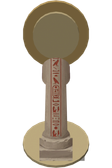
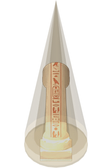
feat: light is ADDED to the exit, so the shaft can stand where the marker does
Sharp has no depth buffer, so a composited layer must be wholly in front of
the paint or wholly behind it — and a beam centred on a marker is neither.
Three arrangements were built to dodge that and none of them read: the stone
in front of a beam, the stone in front of a disc, a shaft slanted past it.

import-tile --glow adds its layer instead of covering with it, which is what
light does. The stone inside the shaft is simply lit stone, and no depth is
needed to say so. --behind, added an hour earlier for the under-the-paint
case, is deleted: --glow removed its only user.

THE LAYER IS RENDERED DIM, because with an additive composite the SUM is what
clips. 0.12 haze and 0.26 pool against the free beam's 0.28 and 0.9 — at those
the cone saturated to a solid tan mass and took the glyph column with it.

THE SHAFT IS THREE NESTED CONES, which is how a flat material gets a falloff.
One cone is a wedge: a hard edge down each side and one value all the way
across, and beside the pool at its foot — a single disc, soft because it is
round — that wedge reads as a shape rather than as light. Nested and added,
the sum steps toward the middle and the outer edge is the faintest thing in
the tile. It is also why the haze alpha is this low: the middle carries three.

MOTES IN THE BEAM WERE TRIED AND CUT. A tile is stored at 2x, so a speck small
enough to be a speck lands on about ONE drawn pixel of added light inside a
[…]

diff --git a/scripts/importTile.ts b/scripts/importTile.ts
@@ -36,11 +36,11 @@
  *                    invented floor over the footprint instead, so the tile arrives with nothing below
  *                    35 and does not sit on anything. `render-prop --only=shadow` draws it in the same
  *                    frame as the object, which is what makes the two line up.
- *   --behind=light.png lay a rendered layer UNDER the art at full strength — --seat's sibling, for the
- *                    part of a tile a repaint cannot make rather than will not. A return comes back
- *                    opaque on magenta, so anything that has to be SEE-THROUGH has to be rendered. The
- *                    exit is the only user: its marker stone is painted and its daylight is not, and
- *                    `render-prop --drop` draws the two halves in one frame so they line up.
+ *   --glow=light.png lay a rendered layer over the art and ADD it, rather than cover with it — which is
+ *                    what light does. It is how the exit's shaft can stand where the marker stands: sharp
+ *                    has no depth buffer, so a layer composited `over` must be wholly in front of the
+ *                    paint or wholly behind it, but an added one simply brightens what it crosses. It
+ *                    clips where it crosses something already pale, so render the layer DIM.
  *   --scale=0.45     how much of the SLOT the object fills, still standing on the floor line. Without it
  *                    a prop grows until it touches an edge, so a lamp and a sarcophagus arrive the same
  *                    height — a shabti, which is a 20cm figurine, landed 84 units tall.
@@ -403,20 +403,7 @@ const cutToMask = async (img: sharp.Sharp, maskPath: string, grow = 0): Promise<
 }
 
 /**
- * Lays a rendered layer under the art. Two callers, and the difference between them is only `opacity`.
- *
- * `--seat` is the footprint, laid TRANSLUCENT so the floor is shaded rather than replaced. `--behind` is
- * anything else the repaint could not make and the geometry must, laid at full strength.
- *
- * UNDER rather than over, and for the exit — the only user of `--behind` — that is not a preference but
- * the depth order. Everything of its daylight stands further from the viewer than the marker stone does,
- * so the stone occludes all of it; composited on TOP the pool of light drew across the pillar's own foot
- * and took the base with it. Sharp has no depth buffer, so the arrangement has to be one a flat stack can
- * express, which means every rendered part is either wholly in front of the paint or wholly behind it.
- *
- * Laid before `--seat` so the shadow falls ON the light rather than under it, and before the trim either
- * way, so the layer and the art are trimmed and seated as one sprite: the exit's disc stands clear above
- * the pillar's cap and is part of the silhouette the slot gets filled with.
+ * Lays the rendered footprint under the art, TRANSLUCENT, so the floor is shaded rather than replaced.
  *
  * `make_shadow` paints an opaque patch — the rank's floor colour darkened — and opaque was right while
  * the shadow was being composited against the magenta backdrop, where any alpha came back magenta-tinted
@@ -428,7 +415,7 @@ const cutToMask = async (img: sharp.Sharp, maskPath: string, grow = 0): Promise<
  * At `opacity` the tile darkens what is behind it instead: floor*(1-a) + shade*a, which keeps the
  * paving legible through the shadow and makes the seat's own colour a nudge rather than a claim.
  */
-const underlay = async (img: sharp.Sharp, layerPath: string, opacity: number): Promise<sharp.Sharp> => {
+const underlayShadow = async (img: sharp.Sharp, layerPath: string, opacity: number): Promise<sharp.Sharp> => {
   const art = await img.ensureAlpha().png().toBuffer({ resolveWithObject: true })
   const { width, height } = art.info
   // Rendered out first for the same reason cutToMask does it: sharp resizes before it composites.
@@ -439,6 +426,36 @@ const underlay = async (img: sharp.Sharp, layerPath: string, opacity: number): P
     .png()
     .toBuffer()
   return sharp(seated)
+}
+
+/**
+ * Lays a rendered layer over the art and ADDS it, rather than covering with it.
+ *
+ * Which is what light does, and it is the reason the exit's shaft can exist at all. Composited `over`,
+ * every rendered part has to be wholly in front of the paint or wholly behind it — sharp has no depth
+ * buffer — so a beam standing where the marker stands could only ever be hidden by it. Added, it brightens
+ * whatever it crosses instead: the stone inside the shaft is lit stone, and no depth is needed to say so.
+ *
+ * `add` CLIPS, and that is the thing to watch rather than the thing to avoid. Where the beam crosses
+ * something already pale the sum saturates and detail goes with it, so the layer is rendered dim and the
+ * brightness comes from the sum. On the gods' lit calcite that margin is thinnest.
+ *
+ * The alpha sums as well as the colour, and that is right rather than a side effect: `add` is Porter-Duff
+ * PLUS on premultiplied pixels, so where the beam falls outside the stone it keeps its own thin alpha and
+ * the paving still shows through it. Capping the result to the art's alpha instead would erase every part
+ * of the shaft that is not standing on the pillar, which is most of it.
+ */
+const glowOver = async (img: sharp.Sharp, layerPath: string): Promise<sharp.Sharp> => {
+  const art = await img.ensureAlpha().png().toBuffer({ resolveWithObject: true })
+  const { width, height } = art.info
+  // Rendered out first for the same reason cutToMask does it: sharp resizes before it composites.
+  const fitted = await sharp(layerPath).ensureAlpha().resize(width, height, { fit: "fill" }).png().toBuffer()
+  return sharp(
+    await sharp(art.data)
+      .composite([{ input: fitted, blend: "add" }])
+      .png()
+      .toBuffer()
+  )
 }
 
 /** Scales an image's alpha channel, leaving its colours alone. */
@@ -507,13 +524,11 @@ const main = async (): Promise<void> => {
   if (archFitted) img = await fitToDoorway(img, w, h, smooth)
   const maskPath = arg("mask")
   if (maskPath) img = await cutToMask(img, maskPath, Number(arg("mask-grow", "0")))
-  // Both of these go after the mask, so they are laid under the object's TRUE silhouette rather than
-  // under a repaint's invented floor, and before the trim, so it treats the whole stack as one sprite.
-  // `--behind` first, so the shadow falls on the light rather than under it: see `underlay`.
-  const behindPath = arg("behind")
-  if (behindPath) img = await underlay(img, behindPath, 1)
   const shadowPath = arg("seat")
-  if (shadowPath) img = await underlay(img, shadowPath, Number(arg("seat-opacity", "0.55")))
+  if (shadowPath) img = await underlayShadow(img, shadowPath, Number(arg("seat-opacity", "0.55")))
+  // Last of the three, and OVER rather than under: added light needs something under it to add to.
+  const glowPath = arg("glow")
+  if (glowPath) img = await glowOver(img, glowPath)
   if (seat && !process.argv.includes("--no-trim")) img = await seatOnFloorLine(img, w / h, Number(arg("scale", "1")))
   // `--trim` is the positive of `--no-trim`, for the slots that never trim at all.
   //

diff --git a/scripts/renderProp.py b/scripts/renderProp.py
@@ -1628,32 +1628,50 @@ def prim_exit():
     battered cippus with a sunk panel for its inscription, which is a thing that was placed, and the light
     is then what singles it out rather than what has to carry the whole meaning.
 
-    THE STONE STANDS IN FRONT OF THE BEAM, and the projection is why rather than taste. Drawn height is
-    z + k*y, so anything nearer the viewer draws LOWER: at y = -0.16 against the shaft's +0.12 the stone
-    lands clear of the light on the page instead of inside it. Concentric, the core would have sat over
-    the panel at 0.9 alpha and taken the inscription with it — `prim_falsedoor`'s offering table, the same
-    overlap arithmetic from the other side.
+    THE STONE STANDS INSIDE THE SHAFT, which is only possible because the import ADDS the light layer
+    rather than laying it over or under (`import-tile --glow`). Sharp has no depth buffer, so a composited
+    layer has to be wholly in front of the paint or wholly behind it — and a beam centred on a marker is
+    neither. Three arrangements were built to dodge that before the additive one: the stone in front of a
+    beam, the stone in front of a disc, and a shaft slanted past it. Added, the stone inside the shaft is
+    lit stone and nothing has to dodge.
 
     THE STONE IS PAINTED AND THE LIGHT IS NOT, which is why they are separate parts rather than one mesh.
     A repaint comes back opaque on magenta, so a painted beam is a post; the stone goes through the
-    generator as any prop does and the light is rendered and laid back over the return at import
-    (`--drop` here, `--overlay` there). Everything of the light is `!nocast`: it stands on the floor in the
-    picture but casts nothing on it, so the seat under the tile is the stone's footprint alone.
+    generator as any prop does and the light is rendered and added back at import (`--drop` here,
+    `--glow` there). Everything of the light is `!nocast`: it stands on the floor in the picture but casts
+    nothing on it.
+
+    AND THE LAYER IS RENDERED DIM, because with an additive composite the SUM is what clips. The free
+    beam's own 0.28 haze and 0.9 core saturate to a solid tan mass over the stone and take the glyph
+    column with them; 0.18 and 0.26 leave the inscription readable through the light.
     """
     # The pool on the paving, which is what roots the shaft to the floor rather than leaving it hovering.
     # Flat and shallow: depth is taxed into height here as everywhere.
     mark(cyl(0.30, 0.02, y=-0.14, z=0.01, verts=24), "daylight!nocast")
-    # The DISC, standing behind the stone: two rings, a wider haze round a brighter core.
-    for r, y_off, part in ((0.30, 0.16, "haze"), (0.21, 0.14, "daylight")):
-        disc = mark(cyl(r, 0.02, y=y_off, z=0.80, verts=26), f"{part}!nocast")
-        disc.rotation_euler = (math.radians(90), 0, 0)
-    # A SHAFT OVER THE PILLAR WAS TRIED AND DROPPED, in three sizes, and the reason is worth keeping
-    # because it is an obvious thing to want twice. Rising from the floor past the stone it is a spike
-    # through the disc; sized to land on the cap it is a candle flame, which a cone closing upward always
-    # is at 56 units; wide enough to flare past the stone it is a tent pitched over it. To read as a
-    # spotlight at all it would have to reach the top of the frame, and `seat_and_normalise` scales the
-    # whole object to one unit tall — so buying the shaft means shrinking the marker, which is the thing
-    # the light is there to pick out.
+    # The SHAFT, standing ON that pool and closing to a point above the pillar's cap. It is centred on the
+    # stone rather than set behind it, which is only possible because the import ADDS this layer
+    # (`--glow`): a beam composited over the paint would hide the marker, and one composited under it
+    # would be hidden BY the marker, so every earlier arrangement had to dodge sideways and none of them
+    # read. Added, the stone inside the shaft is simply lit stone.
+    #
+    # THREE NESTED CONES RATHER THAN ONE, which is how a flat material gets a falloff. One cone is a wedge
+    # with a hard edge down each side and the same value all the way across, and next to the pool at its
+    # foot — a single disc, soft because it is round — that wedge is the part that reads as a shape rather
+    # than as light. Nested and added, the sum steps up toward the middle and the outermost edge is the
+    # faintest thing in the tile, which is what an edge of light looks like.
+    #
+    # No brighter CORE part in it: the steps are all the same material, and it is the overlap that makes
+    # the middle bright. A core of its own colour is a hard edge up the centre, and against an additive
+    # composite that edge is where the sum clips first.
+    for r in (0.30, 0.21, 0.13):
+        mark(cone(r, 0.0, 1.30, y=-0.02, z=0.65), "haze!nocast")
+    # MOTES IN THE BEAM WERE TRIED AND CUT, and the arithmetic is the whole answer. A tile is stored at
+    # 2x, so a speck small enough to be a speck is two or three stored pixels and lands on ONE drawn — at
+    # 56 units that is a single pixel of added light inside a cone that is already light, and it is not
+    # visible at all. Enlarged until it was, it stopped being dust; moved off the shaft to keep clear of
+    # the stone, it fell where the cone is thin enough that it read as dirt on the lens. Over the pillar
+    # it was worse than invisible: additive, it brightens the glyph column, which is the one part of this
+    # tile that has to stay legible.
     # The marker stone: a stepped base, a round shaft between two collars, and a cap.
     #
     # ROUND, and SHORT. A square post with a sunk panel in it read as a shrine cabinet — the panel is a
@@ -2878,8 +2896,14 @@ def paint(obj, hex_colour):
         default = PART_COLOURS.get(part_of(name), hex_colour)
         # Keeps the slot's NAME, not `prop{i}`. `make_shadow` reads it back to find the void, and a
         # renamed slot leaves it unable to tell an absence from stone.
+        #
+        # But the FLAGS are looked up by the part, for the same reason the default is: a slot called
+        # `haze!nocast` is still haze, and `--alpha-haze` has to reach it. Keyed on the raw slot name the
+        # flag silently missed — the exit's shaft took its `--alpha-haze` for three sweeps and rendered
+        # opaque every time, which reads as the beam being too bright rather than as a flag not arriving.
+        part = part_of(name)
         obj.data.materials[i] = flat_material(
-            name, arg(f"colour-{name}", default), float(arg(f"alpha-{name}", "1"))
+            name, arg(f"colour-{part}", default), float(arg(f"alpha-{part}", "1"))
         )
 
 

diff --git a/docs/instructions/site-map-art-handover.md b/docs/instructions/site-map-art-handover.md
@@ -683,12 +683,29 @@ half the doors in the game.
    alone in ONE frame — dropped after `add_camera`, exactly where `--only=shadow` removes the object —
    and `import-tile --behind` lays the light back in.
 
-   **UNDER the paint, not over it, and that is depth order rather than preference.** Every part of the
-   light stands further from the viewer than the stone, so the stone occludes all of it; composited on
-   top, the pool drew straight across the pillar's foot and took the base with it. Sharp has no depth
-   buffer, so the arrangement has to be one a flat stack can express: each rendered part wholly in front
-   of the paint or wholly behind it. The light keeps its `--alpha-haze`/`--alpha-daylight` and everything
-   of it is `!nocast`, so the seat under the tile is the pillar's footprint alone.
+   **ADDED rather than composited over, which is what let the beam come back.** Sharp has no depth
+   buffer, so a layer laid `over` must be wholly in front of the paint or wholly behind it — and a shaft
+   centred on a marker is neither, which is why three arrangements in a row had to dodge the stone
+   sideways and none of them read. `import-tile --glow` adds the layer instead: the stone inside the
+   shaft is simply lit stone. The layer is rendered DIM (0.12 haze, 0.26 pool against the free beam's
+   0.28 and 0.9) because with an additive composite the SUM is what clips — at the old values the cone
+   saturated to a solid mass and took the glyph column with it. Thinnest margin is the gods' lit calcite.
+
+   **The shaft is THREE NESTED CONES**, which is how a flat material gets a falloff. One cone is a wedge:
+   a hard edge down each side and the same value all the way across, and beside the pool at its foot —
+   one disc, soft because it is round — that wedge is the part that reads as a shape rather than as
+   light. Nested and added, the sum steps up toward the middle and the outermost edge is the faintest
+   thing in the tile. It is also why the haze alpha is as low as it is: the middle carries three of them.
+
+   **Two things were tried inside the beam and cut.** MOTES do not survive the slot: a tile is stored at
+   2x, so a speck small enough to be a speck lands on about ONE drawn pixel of added light inside a cone
+   that is already light. Enlarged until visible it stopped being dust, and over the stone it brightened
+   the glyph column, which is the one part that has to stay legible. The SEAT went too — the sun is
+   straight overhead here, so the pillar's shadow belongs under its own base, and the rendered footprint
+   sits off to one side where it read as a hard dark block beside the pool.
+
+   **A flag that was built and then deleted in the same session**: `--behind`, the under-the-paint
+   version. It existed only while the light had to dodge, and `--glow` removed its only user.
 
    The doorway is not lost: it is `prim_exit` as of 9cd4eecc, if architecture reads better later.
 

diff --git a/CHANGELOG.md b/CHANGELOG.md
@@ -43,8 +43,9 @@ and this project adheres to [Semantic Versioning](https://semver.org/spec/v2.0.0
   with the sun disc on him — standing in a timber shrine on the floor, and again in the cupboard set into
   the wall — where before it showed the same Bes-and-whitewash corner as every other merchant's tomb. Two
   gods are now told apart at that rank, which is the point at which a dedication is visible at all.
-- The way out of a pyramid is a marker stone: a round limestone pillar, a column of hieroglyphs cut down
-  it in red ochre, standing in a pool of daylight with the sun behind its head. It reads the same from whichever
+- The way out of a pyramid is a marker stone standing in a shaft of daylight: a round limestone pillar
+  with a column of hieroglyphs cut down it in red ochre, the light falling on it from somewhere above and
+  pooling on the paving at its foot. It reads the same from whichever
   direction you come at it, and the marker that used to stand for it is gone — the stone says it better.
   It was a bare shaft of light first, and light on its own read as a drift of sand: somebody has to have
   PUT a thing there for it to mean "leave here".
